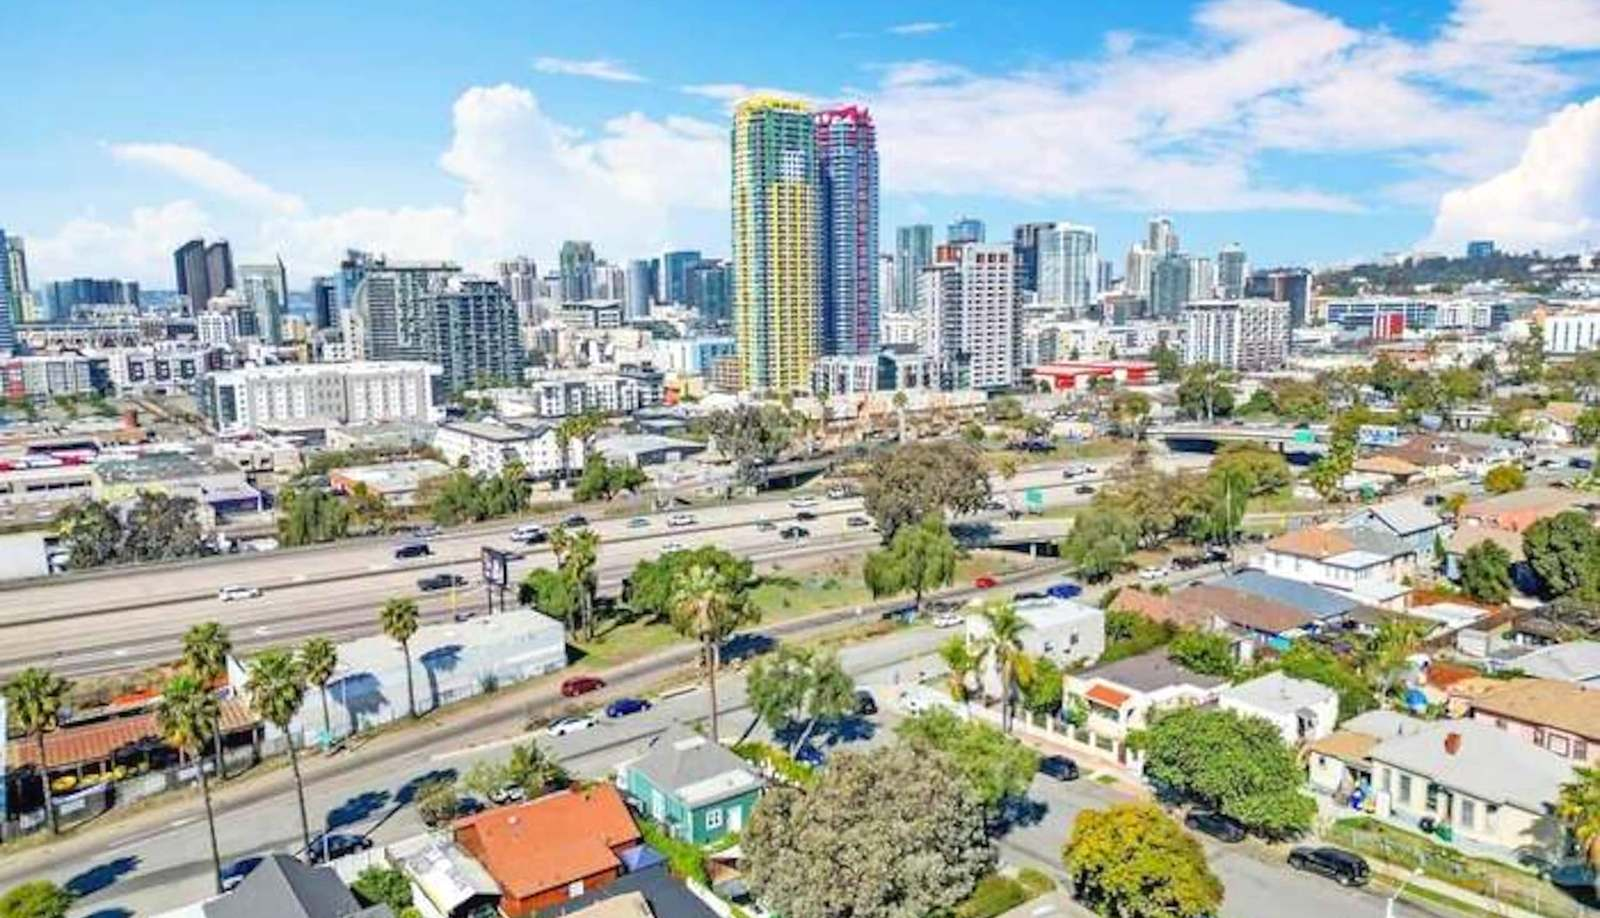
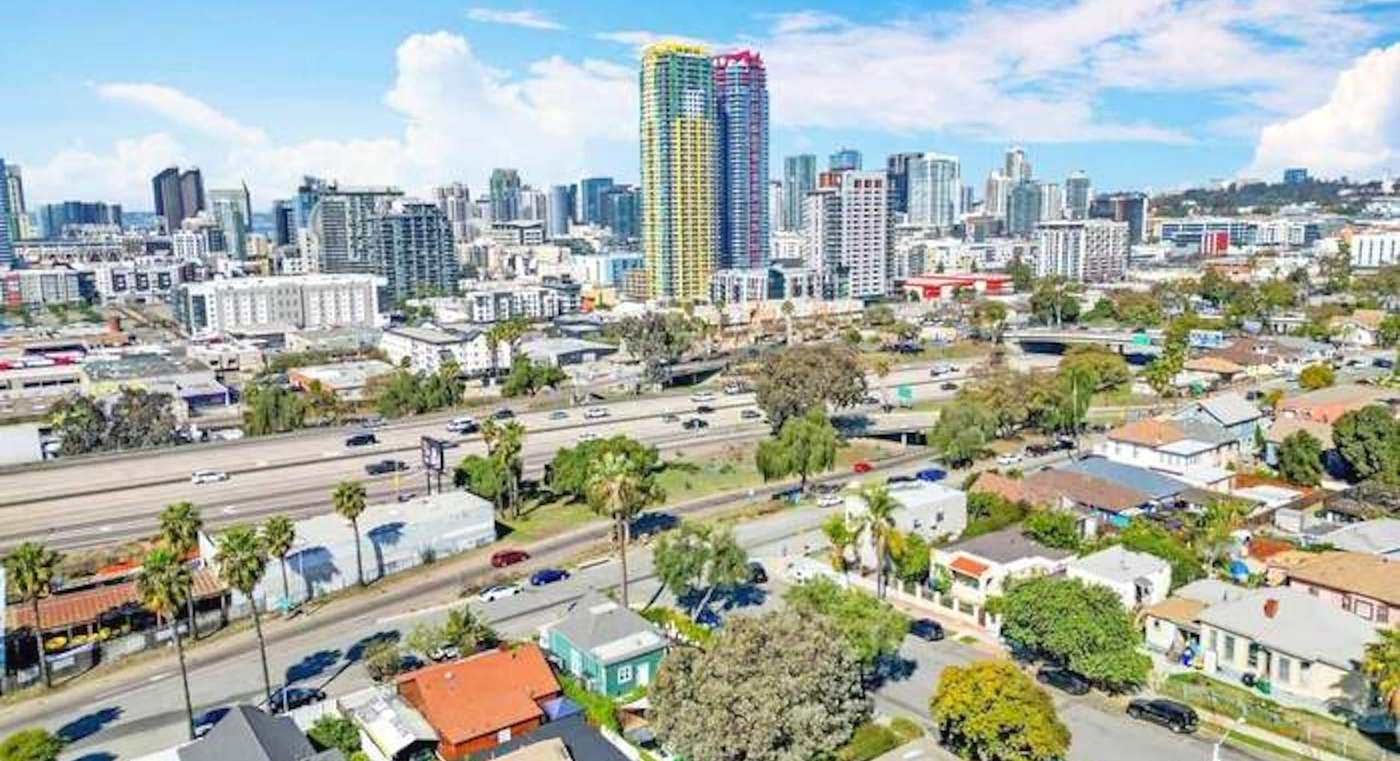
Condense the location map and set the drive list beside it
The aerial ran full width under the heading with "Worth the drive" stacked
below it. Both now sit in a two-column row directly under the heading.

- Re-cropped the source from 12%-88.5% to 16%-88.5% height, trimming sky the
  image no longer needs at the smaller size. Aspect 1.84:1, still clear of the
  MLS watermark, tower tops still in frame.
- Rendered 1400px instead of 1600 and re-fitted: 184KB -> 145KB.
- Image is 603x328 at 1440, down from 1136x652 — under half the area.
- Drive tiles run two-up beside the image; the columns land within 32px of
  each other at 1440 and 14px at 1100.
- Below 940px the row stacks and the tiles go three-up, then two-up under 620.
- Marker recomputed for the new crop and holds at 42.97% / 85.26% at every
  width, still on the green corner house.

Page 6777px -> 6159px at 1440.

diff --git a/index.html b/index.html
@@ -83,6 +83,14 @@ main > div > section:last-of-type{padding-bottom:var(--gap)}
 @media(max-width:620px){.grid3{grid-template-columns:1fr}}
 .cap b{display:block;font-family:var(--display);font-size:19px;font-weight:700;margin-top:14px}
 .cap span{font-size:15px;color:var(--body);line-height:1.58}
+/* location: condensed map beside the drive list */
+.locgrid{display:grid;grid-template-columns:minmax(0,1.1fr) minmax(0,.9fr);
+  gap:clamp(22px,2.8vw,44px);align-items:start;margin-top:clamp(24px,3vw,34px)}
+@media(max-width:940px){.locgrid{grid-template-columns:1fr;gap:26px}}
+.locgrid .trips{grid-template-columns:repeat(2,minmax(0,1fr))}
+@media(max-width:940px){.locgrid .trips{grid-template-columns:repeat(3,minmax(0,1fr))}}
+@media(max-width:620px){.locgrid .trips{grid-template-columns:repeat(2,minmax(0,1fr))}}
+.locgrid h3{margin-top:2px}
 /* aerial location map */
 .aerialmap{margin:0}
 .amwrap{position:relative;border-radius:24px;overflow:hidden;background:var(--sand);isolation:isolate}
@@ -242,35 +250,39 @@ footer a{text-decoration:underline;text-underline-offset:2px}
       directly east of downtown &mdash; a quarter of an hour&rsquo;s walk from the ballpark. Ocean Beach,
       Coronado and La Jolla are all a short drive west when you want sand instead of city.</p>
 
-    <figure class="aerialmap rv" style="margin-top:32px">
-      <div class="amwrap">
-        <img src="assets/aerial-map.jpg" width="1600" height="918" loading="lazy"
-             alt="Golden Hill from the air. The house is marked on its corner lot in the foreground, with the downtown San Diego skyline beyond Interstate 5.">
-        <svg class="amline" viewBox="0 0 760 436" preserveAspectRatio="xMidYMid slice" aria-hidden="true">
-          <defs><filter id="amsh" x="-20%" y="-20%" width="140%" height="140%"><feDropShadow dx="0" dy="1" stdDeviation="1.6" flood-color="#14110C" flood-opacity=".7"/></filter></defs>
-          <path d="M321 359 Q360 250 384 124" fill="none" stroke="#FFFFFF" stroke-opacity=".8"
-                stroke-width="2" stroke-dasharray="6 6" filter="url(#amsh)"/>
-        </svg>
-        <div class="ampin dot" style="left:52.5%;top:23.6%"><b>DOWNTOWN</b><span>15 min on foot to Petco Park</span></div>
-        <div class="amroad" style="left:11%;top:62.5%">INTERSTATE 5</div>
-        <div class="amhouse" style="left:42.97%;top:86.03%">
-          <i></i><u></u><em><b>THE HOUSE</b><span>Golden Hill</span></em>
+    <div class="locgrid">
+      <figure class="aerialmap rv" style="margin:0">
+        <div class="amwrap">
+          <img src="assets/aerial-map.jpg" width="1400" height="761" loading="lazy"
+               alt="Golden Hill from the air. The house is marked on its corner lot in the foreground, with the downtown San Diego skyline beyond Interstate 5.">
+          <svg class="amline" viewBox="0 0 760 413" preserveAspectRatio="xMidYMid slice" aria-hidden="true">
+            <defs><filter id="amsh" x="-20%" y="-20%" width="140%" height="140%"><feDropShadow dx="0" dy="1" stdDeviation="1.6" flood-color="#14110C" flood-opacity=".7"/></filter></defs>
+            <path d="M322 330 Q356 226 390 96" fill="none" stroke="#FFFFFF" stroke-opacity=".8"
+                  stroke-width="2" stroke-dasharray="6 6" filter="url(#amsh)"/>
+          </svg>
+          <div class="ampin dot" style="left:52.5%;top:19.4%"><b>DOWNTOWN</b><span>15 min on foot to Petco Park</span></div>
+          <div class="amroad" style="left:11%;top:60.4%">INTERSTATE 5</div>
+          <div class="amhouse" style="left:42.97%;top:85.26%">
+            <i></i><u></u><em><b>THE HOUSE</b><span>Golden Hill</span></em>
+          </div>
+          <div class="amcompass">N &#8592; W</div>
         </div>
-        <div class="amcompass">N &#8592; W</div>
-      </div>
-      <figcaption>Golden Hill looking west &mdash; the house on its corner lot, downtown beyond the freeway.</figcaption>
-    </figure>
+        <figcaption>Golden Hill looking west &mdash; the house on its corner lot, downtown beyond the freeway.</figcaption>
+      </figure>
 
-    <h3 style="margin-top:34px">Worth the drive</h3>
-    <div class="trips" style="margin-top:16px">
-      <div class="trip walk"><b>Petco Park</b><span>15 min on foot</span></div>
-      <div class="trip walk"><b>Gaslamp Quarter</b><span>[MIN] on foot</span></div>
-      <div class="trip"><b>Ocean Beach</b><span>~15 min by car</span></div>
-      <div class="trip"><b>Coronado</b><span>~15 min by car</span></div>
-      <div class="trip"><b>La Jolla Cove</b><span>~20 min by car</span></div>
-      <div class="trip"><b>The airport</b><span>10 min by car</span></div>
+      <div class="rv">
+        <h3>Worth the drive</h3>
+        <div class="trips" style="margin-top:14px">
+          <div class="trip walk"><b>Petco Park</b><span>15 min on foot</span></div>
+          <div class="trip walk"><b>Gaslamp Quarter</b><span>[MIN] on foot</span></div>
+          <div class="trip"><b>Ocean Beach</b><span>~15 min by car</span></div>
+          <div class="trip"><b>Coronado</b><span>~15 min by car</span></div>
+          <div class="trip"><b>La Jolla Cove</b><span>~20 min by car</span></div>
+          <div class="trip"><b>The airport</b><span>10 min by car</span></div>
+        </div>
+        <p style="font-size:13px;color:var(--soft);margin-top:14px;line-height:1.5">Drive times are approximate and depend on traffic.</p>
+      </div>
     </div>
-    <p style="font-size:13px;color:var(--soft);margin-top:14px;line-height:1.5">Drive times are approximate and depend on traffic.</p>
   </section>
 
   <section id="house" class="two">
